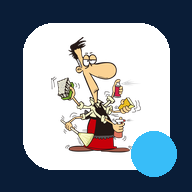
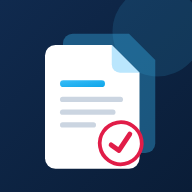
문서함 전용 새 로고(서류+도장), 청구서 주소 한 줄 표시
Claude-Session: https://claude.ai/code/session_01QzXU9CQVReoy5dnnxqNvNw

diff --git a/receipt/theme.css b/receipt/theme.css
@@ -16,9 +16,9 @@ header{background:linear-gradient(110deg,var(--navy) 0%,var(--navy2) 55%,var(--n
 header::after{content:"";position:absolute;right:-60px;top:-80px;width:220px;height:220px;border-radius:50%;
   background:var(--sky);opacity:.16;filter:blur(40px);pointer-events:none}
 header .brand{display:flex;align-items:center;gap:10px;flex:1;min-width:0}
-header .logo{width:40px;height:40px;border-radius:14px;background:#fff;border:1px solid rgba(255,255,255,.4);
+header .logo{width:40px;height:40px;border-radius:12px;background:transparent;border:1px solid rgba(255,255,255,.18);
   display:flex;align-items:center;justify-content:center;overflow:hidden;flex:none;box-shadow:0 4px 12px rgba(0,0,0,.2)}
-header .logo img{width:30px;height:auto}
+header .logo img{width:40px;height:40px;display:block}
 header .bt{display:flex;flex-direction:column;line-height:1.15;min-width:0}
 header .bt small{font-size:9.5px;font-weight:800;letter-spacing:.32em;color:var(--sky)}
 header h1{font-size:18px;font-weight:800;letter-spacing:-.5px;margin:0;color:#fff;white-space:nowrap}

diff --git a/receipt/estimate.css b/receipt/estimate.css
@@ -105,7 +105,8 @@ nav.tabs{overflow-x:auto;scrollbar-width:none;position:sticky;top:calc(env(safe-
 .iv-bank th,.iv-bank td{height:44px;font-size:15.5px}
 .iv-bank th{background:#f4f4f4;width:32%;letter-spacing:3px}
 .iv-date{text-align:center;font-size:17px;margin:56px 0 30px}
-.iv-sign{margin-left:auto;width:58%;font-size:16px;line-height:2.2}
+.iv-sign{display:table;margin:0 0 0 auto;font-size:16px;line-height:2.2;white-space:nowrap}
+.iv-sign>div{white-space:nowrap}
 .iv-sign .who{margin-bottom:8px;letter-spacing:3px}
 .iv-sign .rel{position:relative}
 .iv-stamp{position:absolute;left:118px;top:50%;width:60px;height:60px;right:auto}

diff --git a/receipt/sw.js b/receipt/sw.js
@@ -1,4 +1,4 @@
-const CACHE = 'receipt-v17';
+const CACHE = 'receipt-v19';
 const SHELL = ['./', './index.html', './manifest.webmanifest', './icon-192.png', './icon-512.png', './estimate.js', './invoice.js', './estimate.css', './theme.css', './logo.png', './lib/html2canvas.min.js', './lib/jspdf.umd.min.js'];
 self.addEventListener('install', e => { e.waitUntil(caches.open(CACHE).then(c => c.addAll(SHELL))); self.skipWaiting(); });
 self.addEventListener('activate', e => { e.waitUntil(caches.keys().then(ks => Promise.all(ks.filter(k => k !== CACHE).map(k => caches.delete(k))))); self.clients.claim(); });

diff --git a/receipt/index.html b/receipt/index.html
@@ -84,7 +84,7 @@ nav.tabs button.on{background:var(--ink);color:#fff}
 </head>
 <body>
 <header>
-  <div class="brand"><div class="logo"><img src="logo.png" alt="링크클린"></div><div class="bt"><small>LINK CLEAN</small><h1>링크 문서함</h1></div></div>
+  <div class="brand"><div class="logo"><img src="logo.png" alt="링크 문서함"></div><div class="bt"><small>LINK CLEAN</small><h1>링크 문서함</h1></div></div>
   <select id="profileSel" aria-label="공급자 선택"></select>
 </header>
 
